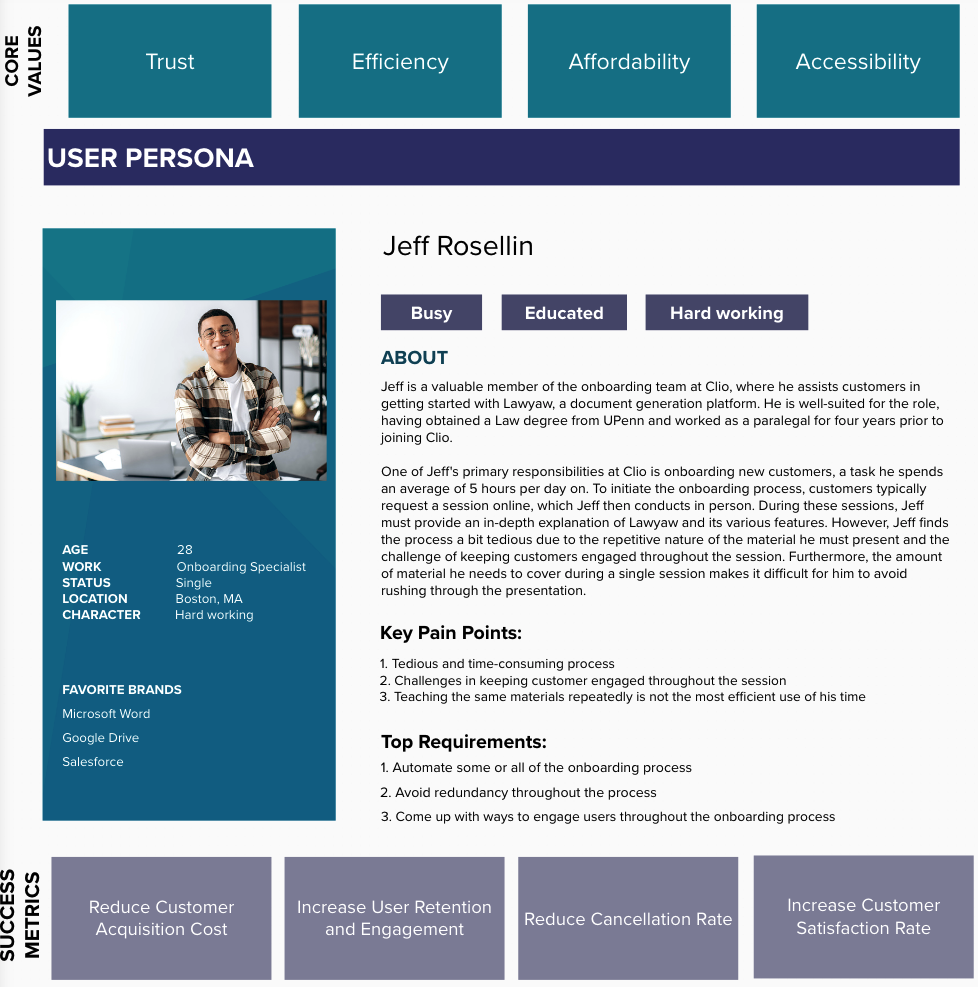
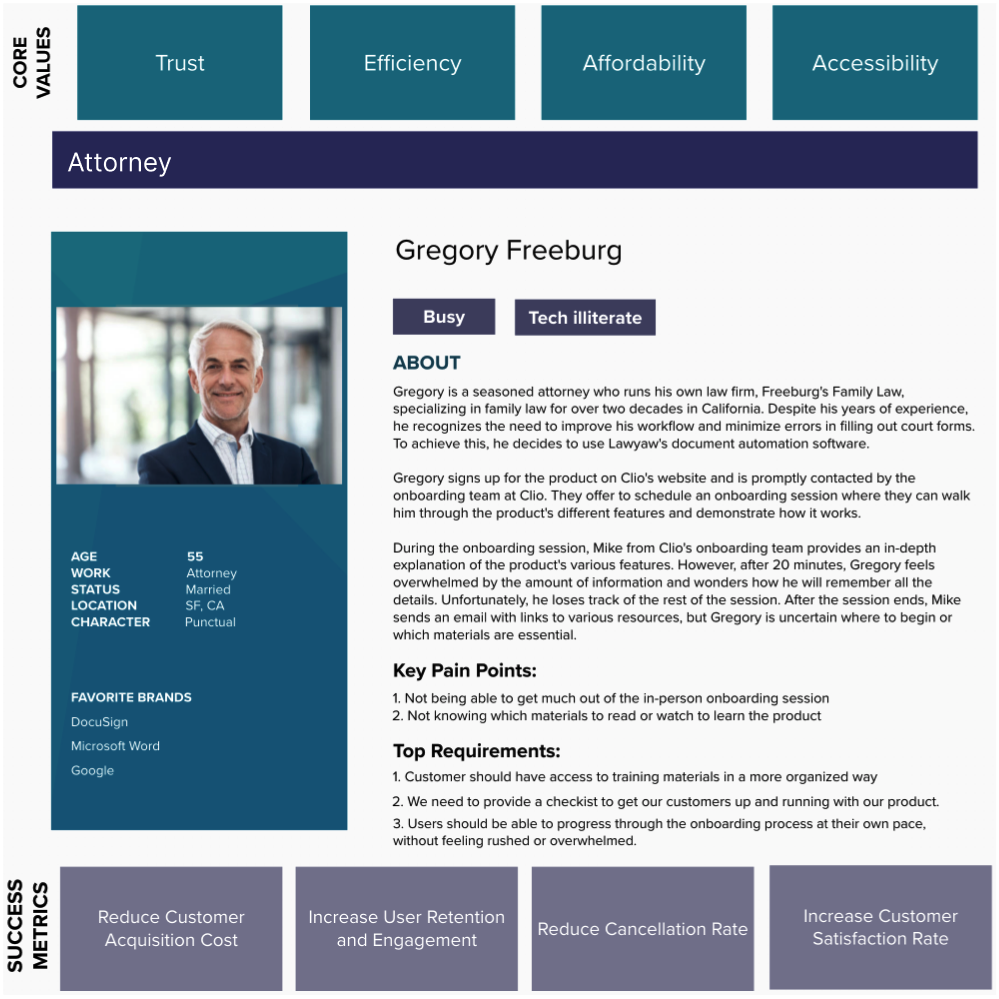
update

diff --git a/projects/Clio-Signup.html b/projects/Clio-Signup.html
@@ -215,11 +215,11 @@
                 </li>
             </ul>
 
-            <!-- <ul class="high-fidelity">
+            <ul class="high-fidelity">
                 <li>
                     <img src="../assets/images/Cliopersona2.png" style="width: 100%;">
                 </li>
-            </ul> -->
+            </ul>
 
             <p class="section-divider">
                 ...
